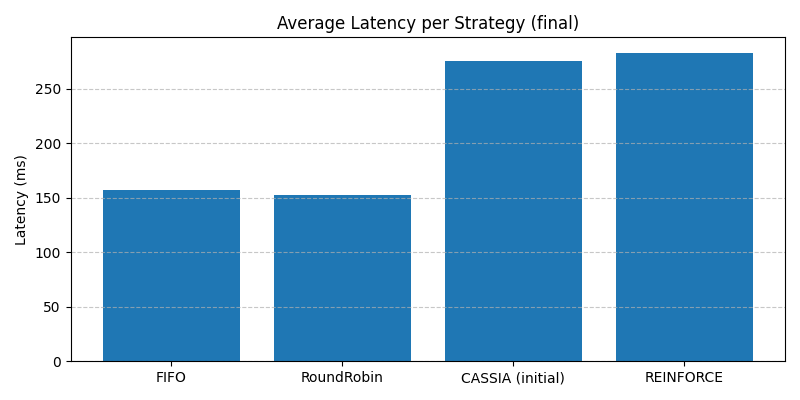
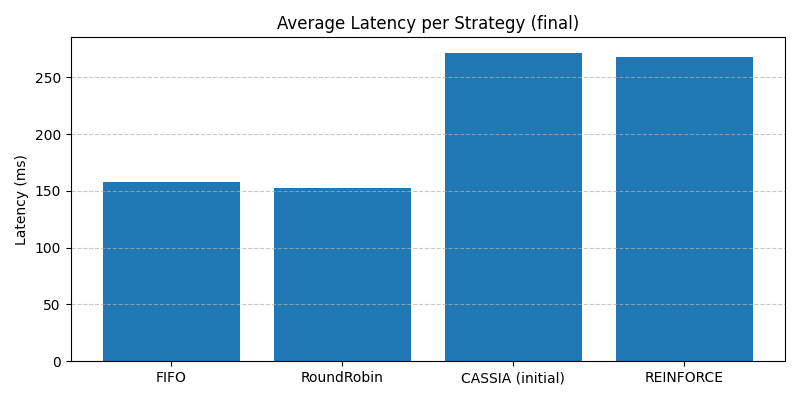
demo update

diff --git a/scheduler/cassia_demo.py b/scheduler/cassia_demo.py
@@ -2,12 +2,8 @@
 """
 scheduler/cassia_demo.py
 
-Updated CASSIA scheduler that:
-- Uses Docker-backed function containers (login/upload/analytics/batch)
-- Instruments startup vs invocation time
-- Resets warm pool before each strategy to ensure fair comparison
-- Prints per-node stats (requests, containers, avg lat, avg startup, avg invoke)
-- Performs brief REINFORCE fine-tuning (small epochs for demo)
+Final version: warm-pool keyed by (func_type, user_id) so warm containers are more granular.
+Everything else similar to the previous instrumented script (startup/invoke timing, reset per strategy).
 """
 
 import os
@@ -42,7 +38,9 @@ FUNCTION_IMAGES = ["cassia-login", "cassia-upload", "cassia-analytics", "cassia-
 FUNCTION_PORT = 8000
 DOCKER_NETWORK = "cassia-net"
 
-WARM_POOL_LIMIT = 20
+# Note: keying by (func_type, user_id) increases number of warm containers.
+# Keep this small if host resources are limited.
+WARM_POOL_LIMIT = 40
 TRAIN_SAMPLES = 600
 TEST_SAMPLES = 200
 REINFORCE_EPOCHS = 2
@@ -51,7 +49,8 @@ LOAD_PENALTY = 0.10
 
 client = docker.from_env()
 
-# warm_pool: per-node OrderedDict to implement LRU eviction easily
+# warm_pool: per-node OrderedDict mapping key -> container record
+# key is (func_type, user_id)
 warm_pool = [OrderedDict() for _ in range(NUM_NODES)]
 
 # -------------------- WORKLOAD & INVOCATIONS --------------------
@@ -177,7 +176,7 @@ class PolicyHead(nn.Module):
 
 scheduler = PolicyHead(model).to(device)
 
-# -------------------- DOCKER UTILS & INVOCATION (instrumented) --------------------
+# -------------------- DOCKER UTILS & INVOCATION (keyed by func+user) --------------------
 def safe_container_remove(container):
     try:
         container.stop(timeout=1)
@@ -201,21 +200,30 @@ def wait_for_http(container_name, port=FUNCTION_PORT, timeout=6.0, interval=0.25
         time.sleep(interval)
     return False
 
-def ensure_container_for_function(node, func_type_idx):
+def ensure_container_for_function(node, func_type_idx, user_id=None):
+    """
+    Ensure a warm container keyed by (func_type, user_id).
+    Returns: (container_name, cold_flag, startup_time_ms)
+    """
     pool = warm_pool[node]
-    key = int(func_type_idx)
+    if user_id is None:
+        key = (int(func_type_idx), -1)
+    else:
+        key = (int(func_type_idx), int(user_id))
+
     if key in pool:
         pool.move_to_end(key)
-        return pool[key]["name"], 0, 0.0  # name, cold_flag, startup_time_ms=0
+        return pool[key]["name"], 0, 0.0
+
     safe_suffix = uuid4().hex[:6]
-    container_name = f"node{node}-f{func_type_idx}-{safe_suffix}"
+    container_name = f"node{node}-f{func_type_idx}-u{key[1]}-{safe_suffix}"
     image = FUNCTION_IMAGES[func_type_idx]
     try:
         container = client.containers.run(image, name=container_name, detach=True, network=DOCKER_NETWORK)
     except docker.errors.APIError:
-        # fallback: random name
         container = client.containers.run(image, detach=True, network=DOCKER_NETWORK)
         container_name = container.name
+
     t0 = time.monotonic()
     ready = wait_for_http(container_name, port=FUNCTION_PORT, timeout=6.0)
     t1 = time.monotonic()
@@ -229,25 +237,20 @@ def ensure_container_for_function(node, func_type_idx):
             safe_container_remove(old_val["container"])
         except Exception:
             pass
-    # log creation
-    print(f"[COLD START] node={node} func={func_type_idx} container={container_name} startup_ms={startup_time_ms:.1f}")
+    print(f"[COLD START] node={node} func={func_type_idx} user={key[1]} container={container_name} startup_ms={startup_time_ms:.1f}")
     return container_name, 1, startup_time_ms
 
-def invoke_function_docker(node, func_type_idx, extra_load=0.0):
+def invoke_function_docker(node, func_type_idx, extra_load=0.0, user_id=None):
     """
     Returns: total_latency_ms, startup_time_ms, invoke_time_ms, cold_flag
     """
-    t_before = time.monotonic()
-    container_name, cold_flag, startup_ms = ensure_container_for_function(node, func_type_idx)
-    t_after_ensure = time.monotonic()
-    # If warm, startup_ms should be 0 (ensured above)
+    container_name, cold_flag, startup_ms = ensure_container_for_function(node, func_type_idx, user_id=user_id)
     url = f"http://{container_name}:{FUNCTION_PORT}/invoke"
     t0 = time.monotonic()
     try:
         r = requests.post(url, timeout=15)
         r.raise_for_status()
     except Exception as e:
-        # try to cleanup container and give big penalty
         print(f"[ERROR] invocation failed for {container_name}: {e}")
         try:
             cont = client.containers.get(container_name)
@@ -258,9 +261,7 @@ def invoke_function_docker(node, func_type_idx, extra_load=0.0):
     else:
         t1 = time.monotonic()
         invoke_ms = (t1 - t0) * 1000.0
-    # total latency = startup + invoke + extra load penalty (we keep startup separate)
     total_latency = startup_ms + invoke_ms + extra_load * LOAD_PENALTY
-    # do NOT add extra +100 if startup_ms already covers cold start; previously you used a static +100 — now we measure startup explicitly
     reward = -total_latency
     return total_latency, startup_ms, invoke_ms, cold_flag
 
@@ -283,7 +284,6 @@ def cleanup_all_warm_containers():
 
 # -------------------- EVALUATION & BASELINES --------------------
 def run_cassia_inference_on_test(scheduler_model, X_test_local, workload_pattern):
-    # instrumentation arrays
     response_times = [[] for _ in range(NUM_NODES)]
     startup_times = [[] for _ in range(NUM_NODES)]
     invoke_times = [[] for _ in range(NUM_NODES)]
@@ -297,14 +297,13 @@ def run_cassia_inference_on_test(scheduler_model, X_test_local, workload_pattern
             x = torch.tensor(x_np, dtype=torch.float32).to(device)
             func_type = int(np.argmax(x_np[:4]))
             user_id = int(scaler.inverse_transform([x_np[4:]])[0][0])
-            func_id = (func_type, user_id)
 
             scores = scheduler_model(x)
             probs = F.softmax(scores.cpu(), dim=-1).squeeze()
             node = int(torch.multinomial(probs, num_samples=1).item())
 
             extra_load = workload_pattern[i][node] if i < len(workload_pattern) else 0
-            total_latency, startup_ms, invoke_ms, cold = invoke_function_docker(node, func_type, extra_load=extra_load)
+            total_latency, startup_ms, invoke_ms, cold = invoke_function_docker(node, func_type, extra_load=extra_load, user_id=user_id)
             if cold:
                 cold_start_events[node] += 1
             response_times[node].append(total_latency)
@@ -312,7 +311,6 @@ def run_cassia_inference_on_test(scheduler_model, X_test_local, workload_pattern
             invoke_times[node].append(invoke_ms)
             total_requests[node] += 1
 
-            # throttle to avoid overloading host
             time.sleep(0.005)
 
     return response_times, startup_times, invoke_times, cold_start_events, total_requests
@@ -386,7 +384,6 @@ def train_reinforce_real(model, X_data, epochs=REINFORCE_EPOCHS):
             x = torch.tensor(x_np, dtype=torch.float32).to(device)
             func_type = int(np.argmax(x_np[:4]))
             user_id = int(scaler.inverse_transform([x_np[4:]])[0][0])
-            func_id = (func_type, user_id)
 
             probs = model(x)
             dist = torch.distributions.Categorical(probs)
@@ -397,8 +394,7 @@ def train_reinforce_real(model, X_data, epochs=REINFORCE_EPOCHS):
             node_counts[node] += 1
 
             extra_load = workload_train[i][node] if i < len(workload_train) else 0
-            total_latency, startup_ms, invoke_ms, cold = invoke_function_docker(node, func_type, extra_load=extra_load)
-            # reward is negative latency; amplify lightly
+            total_latency, startup_ms, invoke_ms, cold = invoke_function_docker(node, func_type, extra_load=extra_load, user_id=user_id)
             reward = -total_latency * 1.0
 
             log_probs.append(log_prob)
@@ -446,24 +442,20 @@ def print_node_stats(prefix, response_times, startup_times, invoke_times, cold_e
         print(f"Node {i}: reqs={total_requests[i]}, containers_kept={containers_kept}, avg_total_lat={avg_lat:.2f} ms, avg_startup={avg_start:.2f} ms, avg_invoke={avg_invoke:.2f} ms, cold_starts={cold_events[i]}")
 
 def main():
-    global scaler  # required in several places
+    global scaler
     try:
-        # Evaluate FIFO baseline
         reset_warm_pool()
         fifo_latency, fifo_cold, fifo_avg, fifo_total, fifo_throughput, fifo_reqs = run_baseline("fifo", workload_pattern=workload_test)
-        # For baselines we have simulated latencies but no startup/invocation separation
         fake_startup_times = [[] for _ in range(NUM_NODES)]
-        fake_invoke_times = fifo_latency  # approximate for printing
+        fake_invoke_times = fifo_latency
         print("\nFIFO baseline (simulated):")
         print_node_stats("FIFO (sim)", fifo_latency, fake_startup_times, fake_invoke_times, fifo_cold, fifo_reqs)
 
-        # Evaluate Round Robin
         reset_warm_pool()
         rr_latency, rr_cold, rr_avg, rr_total, rr_throughput, rr_reqs = run_baseline("round_robin", workload_pattern=workload_test)
         print("\nRound Robin baseline (simulated):")
         print_node_stats("RR (sim)", rr_latency, fake_startup_times, rr_latency, rr_cold, rr_reqs)
 
-        # CASSIA (initial policy)
         reset_warm_pool()
         print("\nRunning CASSIA (initial policy) on real containers...")
         cassia_resp, cassia_start, cassia_invoke, cassia_cold, cassia_reqs = run_cassia_inference_on_test(scheduler, X_test, workload_test)
@@ -472,18 +464,15 @@ def main():
         print_node_stats("CASSIA (initial)", cassia_resp, cassia_start, cassia_invoke, cassia_cold, cassia_reqs)
         print(f"CASSIA initial overall avg latency: {cassia_avg:.2f} ms, total cold starts: {sum(cassia_cold)}")
 
-        # Save initial plots
         os.makedirs("outputs", exist_ok=True)
         save_bar_plot(['FIFO', 'RoundRobin', 'CASSIA'], [fifo_avg, rr_avg, cassia_avg],
                       "Average Latency per Strategy (initial)", "Latency (ms)", "outputs/avg_latency_initial.png")
         save_bar_plot(['FIFO', 'RoundRobin', 'CASSIA'], [sum(fifo_cold), sum(rr_cold), sum(cassia_cold)],
                       "Total Cold Starts per Strategy (initial)", "Cold Starts", "outputs/cold_starts_initial.png")
 
-        # Fine-tune with REINFORCE
         print("\nStarting REINFORCE fine-tuning (on real containers)...")
         train_reinforce_real(reinforce_model, X_train)
 
-        # Evaluate REINFORCE policy
         reset_warm_pool()
         print("\nEvaluating REINFORCE policy on test set (real containers)...")
         reinforce_resp, reinforce_start, reinforce_invoke, reinforce_cold, reinforce_reqs = run_cassia_inference_on_test(reinforce_model, X_test, workload_test)
@@ -492,7 +481,6 @@ def main():
         print_node_stats("REINFORCE", reinforce_resp, reinforce_start, reinforce_invoke, reinforce_cold, reinforce_reqs)
         print(f"REINFORCE overall avg latency: {reinforce_avg:.2f} ms, total cold starts: {sum(reinforce_cold)}")
 
-        # Save final plots
         labels = ['FIFO', 'RoundRobin', 'CASSIA (initial)', 'REINFORCE']
         avg_latencies = [fifo_avg, rr_avg, cassia_avg, reinforce_avg]
         total_cold_starts = [sum(fifo_cold), sum(rr_cold), sum(cassia_cold), sum(reinforce_cold)]
